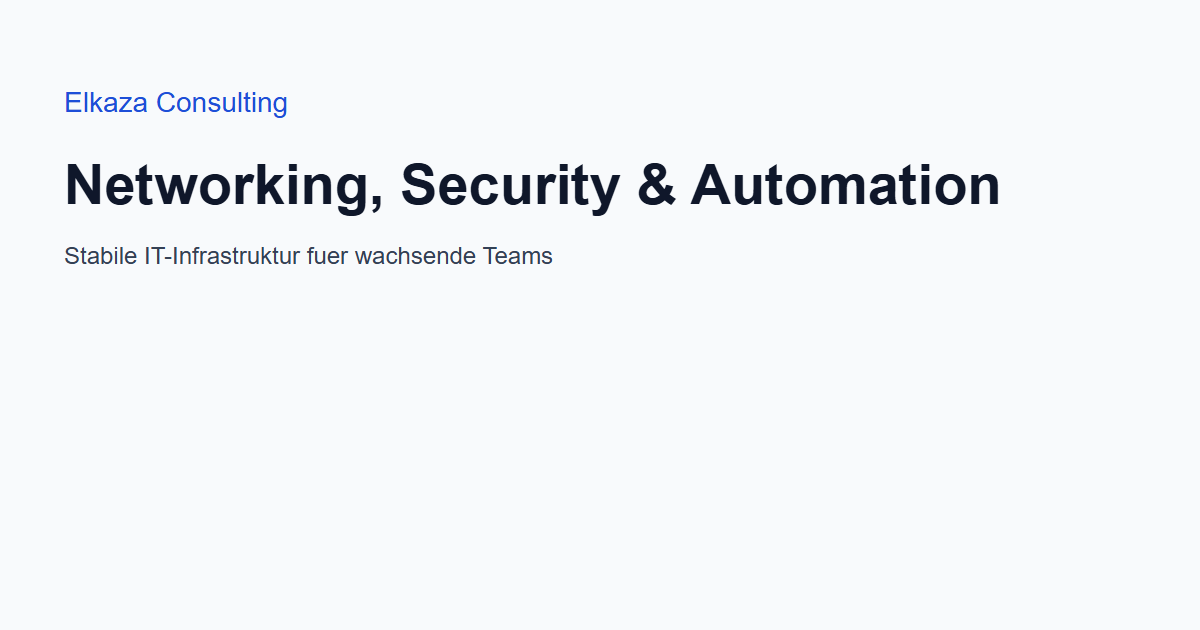
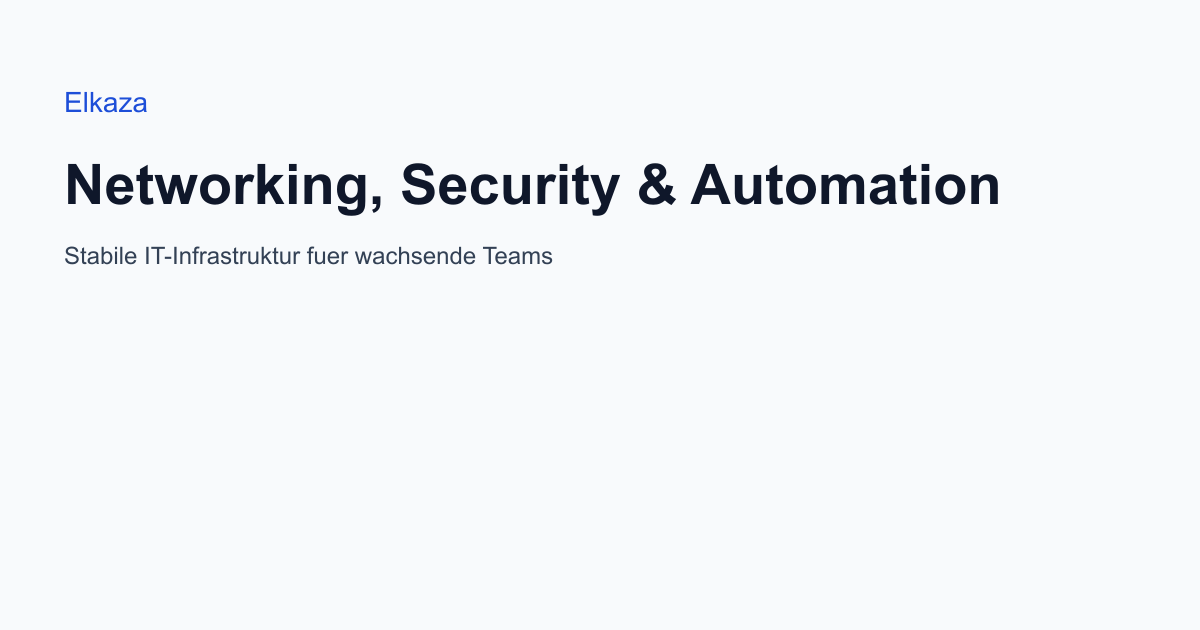
Normalize Elkaza brand naming

diff --git a/app/layout.tsx b/app/layout.tsx
@@ -13,7 +13,7 @@ export function generateMetadata() {
   const canonical = `${base}/`;
   return {
     metadataBase: new URL(base),
-    title: "Elkaza Consulting - Networking, Security & Automation",
+    title: "Elkaza - Networking, Security & Automation",
     description:
       "Stabile IT-Infrastruktur fuer wachsende Teams: Netzwerk, Security und Automatisierung aus einer Hand.",
     icons: {
@@ -27,7 +27,7 @@ export function generateMetadata() {
     appleWebApp: {
       capable: true,
       statusBarStyle: "black-translucent",
-      title: "Elkaza Consulting",
+      title: "Elkaza",
     },
     formatDetection: {
       telephone: false,
@@ -35,10 +35,10 @@ export function generateMetadata() {
     alternates: { canonical, languages: { "de-AT": `${base}/`, en: `${base}/en/` } },
     openGraph: {
       url: canonical,
-      siteName: "Elkaza Consulting",
+      siteName: "Elkaza",
       locale: "de_AT",
       type: "website",
-      images: [{ url: `${base}/opengraph-image.png`, width: 1200, height: 630, alt: "Elkaza Consulting" }],
+      images: [{ url: `${base}/opengraph-image.png`, width: 1200, height: 630, alt: "Elkaza" }],
     },
     twitter: { card: "summary_large_image", images: [`${base}/opengraph-image.png`] },
     robots: { index: false, follow: false, noarchive: true },
@@ -84,7 +84,7 @@ export default function RootLayout({ children }: { children: React.ReactNode }) 
                 {
                   "@type": "Organization",
                   "@id": "https://elkaza.at/#organization",
-                  name: "Elkaza Consulting",
+                  name: "Elkaza",
                   url: "https://elkaza.at",
                   logo: "https://elkaza.at/logo.png",
                   description: "IT-Infrastruktur, Sicherheit und Automatisierung für KMU in Wien und Österreich.",
@@ -95,7 +95,7 @@ export default function RootLayout({ children }: { children: React.ReactNode }) 
                 {
                   "@type": "LocalBusiness",
                   "@id": "https://elkaza.at/#localbusiness",
-                  name: "Elkaza Consulting",
+                  name: "Elkaza",
                   url: "https://elkaza.at",
                   email: "office@elkaza.at",
                   address: {
@@ -110,7 +110,7 @@ export default function RootLayout({ children }: { children: React.ReactNode }) 
                   "@type": "WebSite",
                   "@id": "https://elkaza.at/#website",
                   url: "https://elkaza.at",
-                  name: "Elkaza Consulting",
+                  name: "Elkaza",
                   publisher: { "@id": "https://elkaza.at/#organization" },
                   inLanguage: ["de-AT", "en"],
                 },

diff --git a/app/insights/[slug]/page.tsx b/app/insights/[slug]/page.tsx
@@ -6,7 +6,7 @@ const mockPosts: Record<string, { title: string; date: string; content: string; 
     title: "KI-Strategie für KMUs: pragmatisch starten",
     date: "2025-11-01",
     content: "Beginnen Sie mit klaren Use-Cases und messbaren Zielen...",
-    author: "Elkaza Consulting",
+    author: "Elkaza",
   },
 };
 
@@ -17,7 +17,7 @@ export async function generateMetadata({ params }: { params: Promise<{ slug: str
 
   return {
     ...createLocalizedMetadata({
-    title: `${post.title} - Elkaza Consulting`,
+    title: `${post.title} - Elkaza`,
     description: post.content,
     path: `/insights/${slug}`,
     }),

diff --git a/app/en/insights/[slug]/page.tsx b/app/en/insights/[slug]/page.tsx
@@ -6,7 +6,7 @@ const mockPosts: Record<string, { title: string; date: string; content: string; 
     title: "AI Strategy for SMEs: start pragmatically",
     date: "2025-11-01",
     content: "Start with clear use cases and measurable goals...",
-    author: "Elkaza Consulting",
+    author: "Elkaza",
   },
 };
 
@@ -17,7 +17,7 @@ export async function generateMetadata({ params }: { params: Promise<{ slug: str
 
   return {
     ...createLocalizedMetadata({
-    title: `${post.title} - Elkaza Consulting`,
+    title: `${post.title} - Elkaza`,
     description: post.content,
     path: `/en/insights/${slug}`,
     }),

diff --git a/app/components/HomeHero.tsx b/app/components/HomeHero.tsx
@@ -4,14 +4,14 @@ import { siteContent, type Locale } from "@/lib/siteContent";
 
 const details = {
   de: {
-    eyebrow: "Elkaza Consulting · Wien, Österreich",
+    eyebrow: "Elkaza · Wien, Österreich",
     services: "Geplante Leistungen",
     scenarios: "Beispielszenarien",
     servicesHref: "/leistungen",
     scenariosHref: "/referenzen",
   },
   en: {
-    eyebrow: "Elkaza Consulting · Vienna, Austria",
+    eyebrow: "Elkaza · Vienna, Austria",
     services: "Planned services",
     scenarios: "Illustrative scenarios",
     servicesHref: "/en/services",

diff --git a/lib/metadata.ts b/lib/metadata.ts
@@ -95,7 +95,7 @@ export function generateServiceMetadata(props: ServiceMetadataProps): Metadata {
           alt: title,
         },
       ],
-      siteName: 'Elkaza Consulting',
+      siteName: 'Elkaza',
       locale: locale === 'en' ? 'en_US' : 'de_AT',
     },
     twitter: {
@@ -158,7 +158,7 @@ export function generateServiceSchema(props: ServiceMetadataProps) {
     },
     provider: {
       '@type': 'Organization',
-      name: 'Elkaza Consulting',
+      name: 'Elkaza',
       url: 'https://elkaza.at',
       logo: 'https://elkaza.at/logo.png',
     },

diff --git a/app/leistungen/managed-ops/page.tsx b/app/leistungen/managed-ops/page.tsx
@@ -3,7 +3,7 @@ import ServicePageTemplate from "@/app/components/ServicePageTemplate";
 import { createLocalizedMetadata } from "@/lib/metadata";
 
 export const metadata = createLocalizedMetadata({
-    title: "Managed Operations - Elkaza Consulting",
+    title: "Managed Operations - Elkaza",
     description: "Nicht validiertes Zukunftskonzept für mögliche laufende Betreuung. Derzeit kein Angebot, keine SLAs und keine zugesicherten Reaktionszeiten.",
     path: "/leistungen/managed-ops",
 });

diff --git a/app/en/services/managed-ops/page.tsx b/app/en/services/managed-ops/page.tsx
@@ -3,7 +3,7 @@ import ServicePageTemplate from "@/app/components/ServicePageTemplate";
 import { createLocalizedMetadata } from "@/lib/metadata";
 
 export const metadata = createLocalizedMetadata({
-    title: "Managed Operations - Elkaza Consulting",
+    title: "Managed Operations - Elkaza",
     description: "Unvalidated future concept for possible ongoing support. No current offer, SLA, or guaranteed response time.",
     path: "/en/services/managed-ops",
 });

diff --git a/app/leistungen/ransomware-resilience/page.tsx b/app/leistungen/ransomware-resilience/page.tsx
@@ -3,7 +3,7 @@ import ServicePageTemplate from "@/app/components/ServicePageTemplate";
 import { createLocalizedMetadata } from "@/lib/metadata";
 
 export const metadata = createLocalizedMetadata({
-    title: "Ransomware Resilience - Elkaza Consulting",
+    title: "Ransomware Resilience - Elkaza",
     description: "Nicht ob, sondern wann. Unveränderbare Backups, Notfallpläne und Wiederherstellungstests.",
     path: "/leistungen/ransomware-resilience",
 });

diff --git a/app/leistungen/endpoint-security/page.tsx b/app/leistungen/endpoint-security/page.tsx
@@ -3,7 +3,7 @@ import ServicePageTemplate from "@/app/components/ServicePageTemplate";
 import { createLocalizedMetadata } from "@/lib/metadata";
 
 export const metadata = createLocalizedMetadata({
-    title: "Endpoint & Device Security - Elkaza Consulting",
+    title: "Endpoint & Device Security - Elkaza",
     description: "Jedes Gerät abgesichert. EDR, Verschlüsselung, Patching für Laptops und Mobiles.",
     path: "/leistungen/endpoint-security",
 });

diff --git a/app/leistungen/digitalstrategie/page.tsx b/app/leistungen/digitalstrategie/page.tsx
@@ -2,7 +2,7 @@ import CTA from "@/app/components/CTA";
 import { createLocalizedMetadata } from "@/lib/metadata";
 
 export const metadata = createLocalizedMetadata({
-  title: "Digitale Strategie & Beratung - Elkaza Consulting",
+  title: "Digitale Strategie & Beratung - Elkaza",
   description: "Klare Technologie-Roadmaps, die Investitionen priorisieren, Stakeholder ausrichten und Umsetzungsrisiken reduzieren.",
   path: "/leistungen/digitalstrategie",
 });

diff --git a/app/leistungen/networking/page.tsx b/app/leistungen/networking/page.tsx
@@ -3,7 +3,7 @@ import ServicePageTemplate from "@/app/components/ServicePageTemplate";
 import { createLocalizedMetadata } from "@/lib/metadata";
 
 export const metadata = createLocalizedMetadata({
-    title: "Netzwerk & Infrastruktur - Elkaza Consulting",
+    title: "Netzwerk & Infrastruktur - Elkaza",
     description: "Stabile Verbindungen, saubere Segmentierung, sichere Remote-Zugänge für wachsende Teams.",
     path: "/leistungen/networking",
 });

diff --git a/app/leistungen/nis2-compliance/page.tsx b/app/leistungen/nis2-compliance/page.tsx
@@ -3,7 +3,7 @@ import ServicePageTemplate from "@/app/components/ServicePageTemplate";
 import { createLocalizedMetadata } from "@/lib/metadata";
 
 export const metadata = createLocalizedMetadata({
-    title: "NIS2 / Compliance Readiness - Elkaza Consulting",
+    title: "NIS2 / Compliance Readiness - Elkaza",
     description: "Keine Angst vor dem Audit. Pragmatische Compliance, Dokumentation und Prozesse.",
     path: "/leistungen/nis2-compliance",
 });
